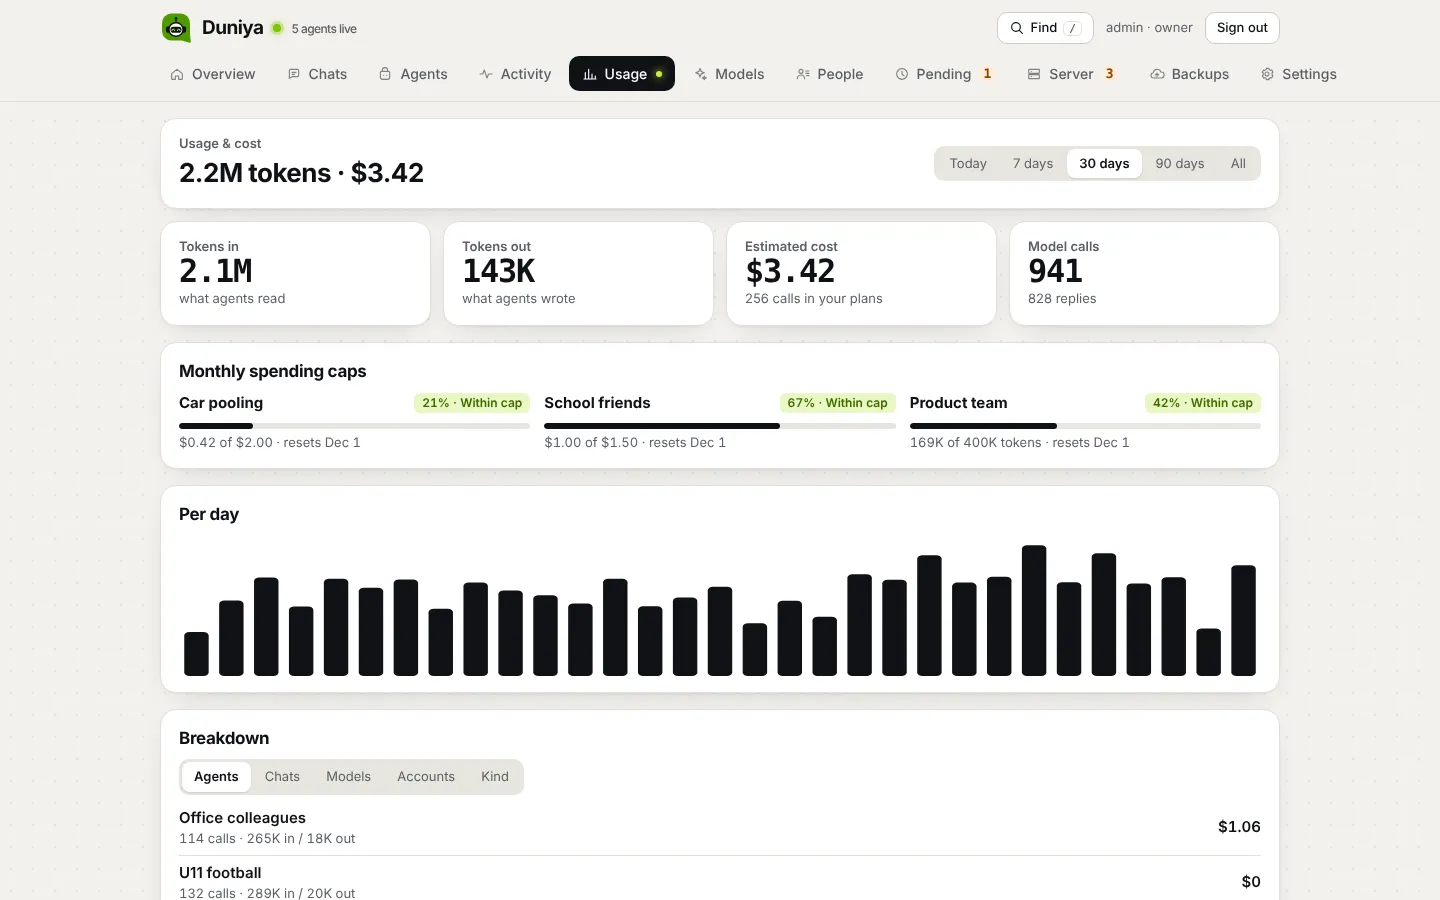
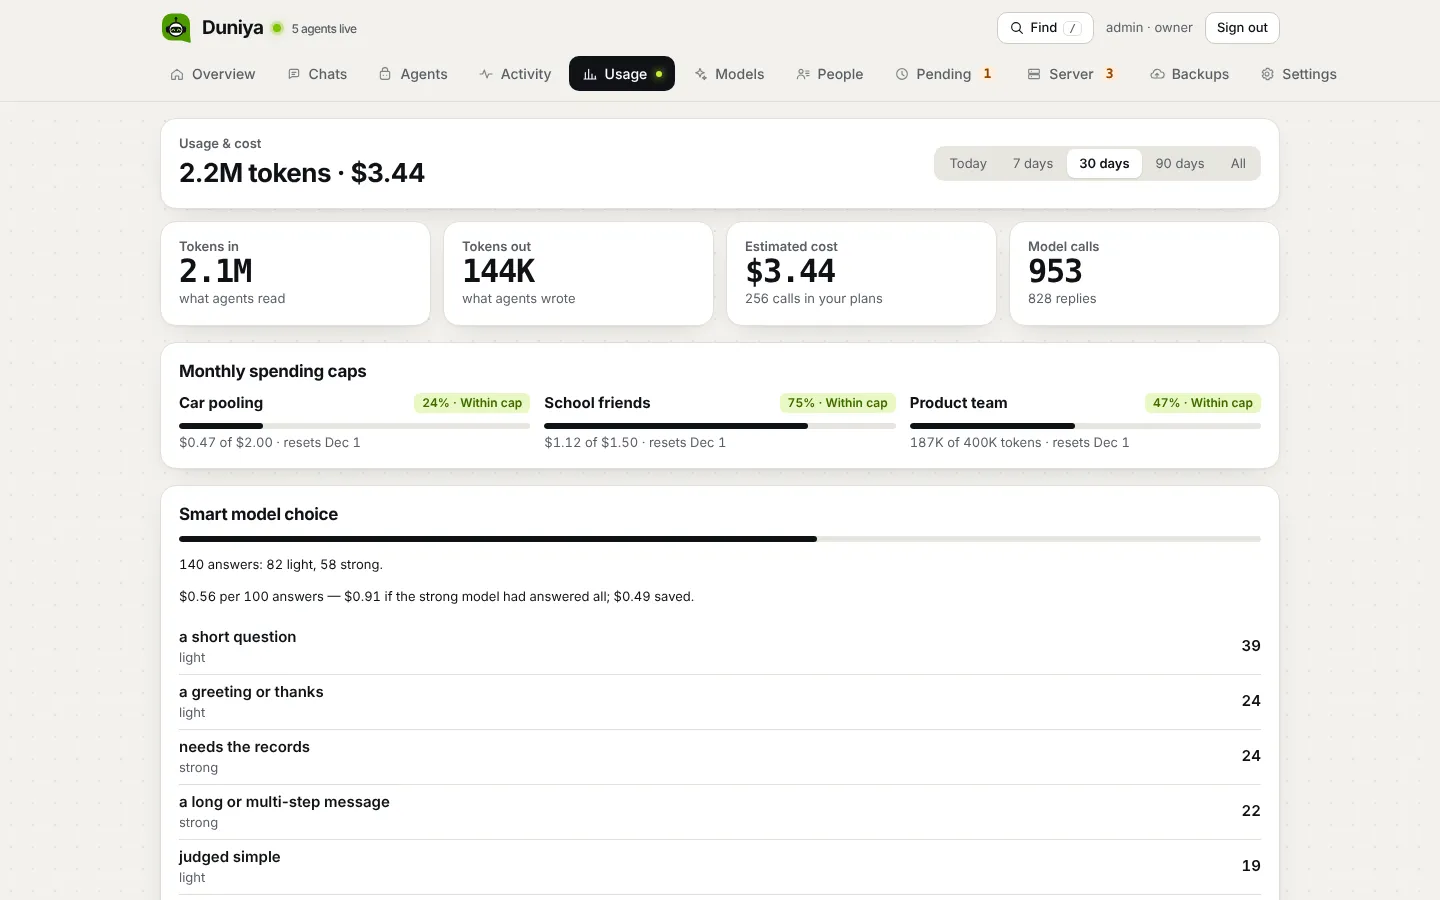
Docs, website and screenshots for Smart model choice and Self-check; readable savings per 100 answers

diff --git a/src/panel/public/app/models.js b/src/panel/public/app/models.js
@@ -339,15 +339,15 @@ export async function renderModels() {
   const bg = modelSelect(models, models.backgroundModel, { autoLabel: `Auto${models.resolvedBackground ? ` (now ${models.resolvedBackground})` : ''}` });
   // 088: Smart choice — the light and strong models of agents on "Auto: light or strong"
   const sm = models.smart || { light: 'auto', strong: 'auto', classifier: true };
-  const light = modelSelect(models, sm.light, { autoLabel: `Auto: the background model${sm.resolvedLight ? ` (now ${sm.resolvedLight})` : ''}` });
-  const strong = modelSelect(models, sm.strong, { autoLabel: `Auto: the default model${sm.resolvedStrong ? ` (now ${sm.resolvedStrong})` : ''}` });
+  const light = modelSelect(models, sm.light, { autoLabel: 'Auto: the background model' });
+  const strong = modelSelect(models, sm.strong, { autoLabel: 'Auto: the default model' });
   const judge = h('input', { type: 'checkbox', checked: sm.classifier !== false });
   const defaults = h('div', { class: 'card' }, h('h2', {}, 'Default models'),
     anyOn ? null : h('p', { class: 'small muted' }, 'Connect a provider above first.'),
     field('Default model (agents on Auto)', def, models.resolvedDefault ? `Auto currently means ${models.resolvedDefault}` : ''),
     field('Background model (memory summaries)', bg, models.resolvedBackground ? `Auto currently means ${models.resolvedBackground}` : ''),
     h('h3', { id: 'smart' }, 'Smart choice'), h('p', { class: 'small muted' }, 'For agents on “Auto: light for simple, strong when needed”. A free model on OpenRouter makes a good light model. ', helpLink('models.md#smart-choice')),
-    h('div', { class: 'grid2' }, field('Light model', light), field('Strong model', strong)),
+    h('div', { class: 'grid2' }, field('Light model', light, sm.resolvedLight ? `Now ${modelLabel(sm.resolvedLight, models)}` : ''), field('Strong model', strong, sm.resolvedStrong ? `Now ${modelLabel(sm.resolvedStrong, models)}` : '')),
     h('label', { class: 'inline' }, judge, 'When the rules are unsure, ask the light model (a few tokens)'),
     h('div', { class: 'row', style: 'margin-top:12px' },
       h('button', { class: 'btn primary mut', onclick: () => tryApi(async () => { await api('POST', '/api/models/defaults', { defaultModel: def.value, backgroundModel: bg.value, smart: { light: light.value, strong: strong.value, classifier: judge.checked } }); S.models = null; renderModels(); }, 'Saved') }, 'Save'),

diff --git a/docs/site/index.html b/docs/site/index.html
@@ -186,6 +186,16 @@
       </article>
 
       <article class="tile wide">
+        <span class="label">Smarter agents</span>
+        <h3>A light model for small talk. Checked figures for everything else.</h3>
+        <p>Choose <b>Auto: light for simple, strong when needed</b>: greetings and short questions go to a cheap or free model, the owner, photos, changes and anything about your records to the strong one — decided by rules in code, a 4-token check only when unsure. <b>Usage</b> shows what it saved. Before an answer goes out, its amounts, dates and counts are checked against People, events and orders: a wrong figure is corrected, never sent.</p>
+        <div class="duo">
+          <a class="shot" href="img/card-agent-model.webp"><img src="img/card-agent-model.webp" width="1160" height="1548" loading="lazy" alt="An agent's Model section: Auto: light for simple, strong when needed, the light and strong models, and Self-check switched on."></a>
+          <a class="shot" href="img/card-usage-smart.webp"><img src="img/card-usage-smart.webp" width="1600" height="893" loading="lazy" alt="Usage: Smart model choice — 140 answers, most of them light, the cost per 100 answers and what it saved, with the reasons."></a>
+        </div>
+      </article>
+
+      <article class="tile wide">
         <span class="label">On your phone</span>
         <h3>Run it between two errands.</h3>
         <p>The panel installs on your home screen and opens full screen like an app: a tab bar at your thumb, compact rows that open into pages (a page per person, too), chats always by their name, Undo when you switch something off, light and dark. Nothing from a store, nothing to keep up to date.</p>

diff --git a/src/panel/public/app/agent-editor.js b/src/panel/public/app/agent-editor.js
@@ -259,10 +259,11 @@ function buildModel(x) {
   const fb = fallbackPicker(x.models, x.c.fallback, { what: 'agent' });
   // 088: Smart choice — its own light / strong models (empty: Settings → Models), shown while "smart" is chosen
   const sm = x.models.smart || {};
-  const tier = (k, now) => modelSelect(x.models, x.c.modelTiers?.[k] || 'auto', { autoLabel: `Same as Models${now ? ` (now ${now})` : ''}`, 'aria-label': `${k} model` });
-  F['modelTiers.light'] = tier('light', sm.resolvedLight); F['modelTiers.strong'] = tier('strong', sm.resolvedStrong);
+  const tier = (k) => modelSelect(x.models, x.c.modelTiers?.[k] || 'auto', { autoLabel: 'Same as Models', 'aria-label': `${k} model` });
+  const now = (ref) => (ref ? `Models: ${modelLabel(ref, x.models)}` : '');
+  F['modelTiers.light'] = tier('light'); F['modelTiers.strong'] = tier('strong');
   const tiers = block('Light and strong', h('p', { class: 'small muted' }, 'Simple messages (greetings, thanks, short questions) go to the light model; the owner, photos, changes, long or multi-step messages and looking things up go to the strong one. Activity says which answered and why. ', helpLink('models.md#smart-choice')),
-    h('div', { class: 'grid2' }, field('Light model', F['modelTiers.light']), field('Strong model', F['modelTiers.strong'])));
+    h('div', { class: 'grid2' }, field('Light model', F['modelTiers.light'], now(sm.resolvedLight)), field('Strong model', F['modelTiers.strong'], now(sm.resolvedStrong))));
   const showTiers = () => tiers.classList.toggle('hide', F.model.value !== 'smart');
   F.model.addEventListener('change', showTiers); showTiers();
   F.selfCheck = check(x.c.selfCheck !== false);

diff --git a/src/panel/public/app/usage.js b/src/panel/public/app/usage.js
@@ -125,11 +125,11 @@ export async function renderUsage() {
 /** 088: agents on "Auto: light or strong": how the answers split and what it saved. */
 function smartCard(r) {
   if (!r?.answers) return null;
-  const light = r.tiers.light?.answers || 0; const per = (v) => (v == null ? 'price not set' : fmtCost(v));
+  const light = r.tiers.light?.answers || 0; const per = (v) => (v == null ? 'price not set' : fmtCost(v * 100)); // per 100 answers: readable sums
   return h('div', { class: 'card', style: 'margin-top:16px', 'data-jump': 'smart' }, h('h2', {}, 'Smart model choice'),
     meter(Math.round((light / r.answers) * 100)),
     h('p', { class: 'small num' }, `${plural(r.answers, 'answer')}: ${light} light, ${r.answers - light} strong.`),
-    r.compared ? h('p', { class: 'small num' }, `Cost per answer ${per(r.perAnswer)} — ${per(r.perAnswerStrong)} if the strong model had answered all; ${fmtCost(r.saved)} saved.`)
+    r.compared ? h('p', { class: 'small num' }, `${per(r.perAnswer)} per 100 answers — ${per(r.perAnswerStrong)} if the strong model had answered all; ${fmtCost(r.saved)} saved.`)
       : h('p', { class: 'small muted' }, 'Set the prices of the light and strong models to see what it saves.'),
     h('ul', { class: 'urows' }, r.reasons.map((x) => h('li', {}, h('div', { class: 'u-main' }, h('span', { class: 'u-name' }, x.reason), h('span', { class: 'small muted' }, x.tier)), h('span', { class: 'u-cost num' }, String(x.n))))));
 }

diff --git a/src/core/fact-check.js b/src/core/fact-check.js
@@ -23,7 +23,7 @@ const cents = (s) => {
 const md = (m, d) => (m >= 1 && m <= 12 && d >= 1 && d <= 31 ? `${String(m).padStart(2, '0')}-${String(d).padStart(2, '0')}` : null);
 
 /** Amounts (in cents) stated in a text. */
-export function amountsIn(text) {
+function amountsIn(text) {
   const out = [];
   for (const m of String(text).matchAll(MONEY)) { const c = cents(m[1] ?? m[2]); if (c != null) out.push(c); }
   return out;

diff --git a/docs/admin-mcp.md b/docs/admin-mcp.md
@@ -84,7 +84,7 @@ rotation). Spec: [`specs/017-admin-mcp/`](../specs/017-admin-mcp/spec.md).
 | Modules | `list_modules`, `set_module_enabled` (confirm required); [Events](events.md): `list_events`, `get_event` (counts incl. kids, registrations, duties), `save_event`, `delete_event` (confirm required), `register_for_event`, `update_registration`, `save_event_duty`; [Orders and payments](orders.md): `list_orders` ("who hasn't paid?"), `get_order`, `create_order`, `record_payment` (payments and refunds, confirm required), `set_payment_methods`; [Lists and sending](sending.md): `list_sends`, `get_send`, `send_to_people` (preview, confirm required), `control_send` (pause, resume, stop), `save_send_audience`, `set_payment_reminders` (confirm required), [campaigns](campaigns.md): `start_campaign` (confirm required), `get_campaign`, `control_campaign`; [Surveys](surveys.md): `list_surveys`, `get_survey_results`, `save_survey`, `delete_survey` (confirm required) |
 | Sending pace | `get_sending_pace`, `set_sending_pace` (preset, read receipts, custom ranges: [Sending pace](sending-pace.md)) |
 | Channels | `list_channels` (state, numbers or bot connected, memory used, the Telegram bot's name and privacy mode), `set_channel_enabled` (switching a channel off needs `confirm_action`), `set_telegram_dm_agent`; connect Telegram with `set_secret` `TELEGRAM_BOT_TOKEN` (one-time link) |
-| Models | models, accounts (`list_model_accounts` with each account's health: paused until when and why, e.g. a usage limit; for [agent apps](models.md#agent-apps) also whether the app is downloaded and its measured memory), fallback, photos & voice. Agent apps are connected by the owner in the panel (their own sign-in) |
+| Models | models, [Smart choice](intelligence.md#smart-model-choice) (`set_default_models` with `light_model`, `strong_model`, `smart_classifier`; `get_smart_model_savings`), accounts (`list_model_accounts` with each account's health: paused until when and why, e.g. a usage limit; for [agent apps](models.md#agent-apps) also whether the app is downloaded and its measured memory), fallback, photos & voice. Agent apps are connected by the owner in the panel (their own sign-in) |
 | Tools | global tool services, browse and add from the MCP Registry (`search_mcp_registry`, `add_tool_service_from_registry`), secrets, confirmations, logging |
 | Server | updates (`get_update_status` with the notes of every release in between, incl. breaking releases: `apply_update` with `breaking: true`, `snooze_update_decision`; the update source: `source` in `get_update_status`,
 `set_update_source` to a fork or back to the project, confirm required), release notes (`get_release_notes`: what each installed version brought, any range), metrics (with hosting), OS updates (`list_os_updates`: will install / rolling out gradually / held back; `run_maintenance` `os-update` or `os-update-all` to include gradual updates; restart-needed status), the root maintenance helper (`get_maintenance_status` → `helperOutdated`, `helperSelfUpdate`; `run_maintenance` `update-helper`), Small server mode (`set_small_server_mode`, confirm required), health and retention (`get_server_health`: database size, oldest kept data, last clean-up, disk, queue, clock; `set_retention`, confirm required), restart, backups |

diff --git a/docs/privacy.md b/docs/privacy.md
@@ -74,6 +74,7 @@ context…" (edit under **Settings → Privacy notice**).
 | **Chats that are off** | the id, time and sender id of the newest message only (no text, no names), to ask the phone for history later |
 | **Activity log** | minimal, normal or verbose, by category and per chat, with retention. Errors, confirmations, configuration changes and channel status are always recorded |
 | **Summaries** | the weekly summary and *Why agents stayed quiet* keep counts only |
+| **Smarter agents** | [Smart model choice](intelligence.md#smart-model-choice) keeps per answer the tier, a short reason and the cost (never text); its classifier sends the message alone (≤ 400 characters) to your light model. [Self-check](intelligence.md#self-check) compares figures in code and keeps counts only |
 | **Welcomes** | a hash of the group and the new member's id, so each person is welcomed once (no names or numbers); the activity log says how many were welcomed |
 | **Personal details** | agents don't post phone numbers, emails, health or payment details in groups |
 | **Keys and passwords** | never through a chat or a model: entered on one-time panel links; a key pasted to the owner assistant is not read, stored or logged ([Owner assistant](owner-assistant.md#what-it-may-do-decided-in-code)) |
